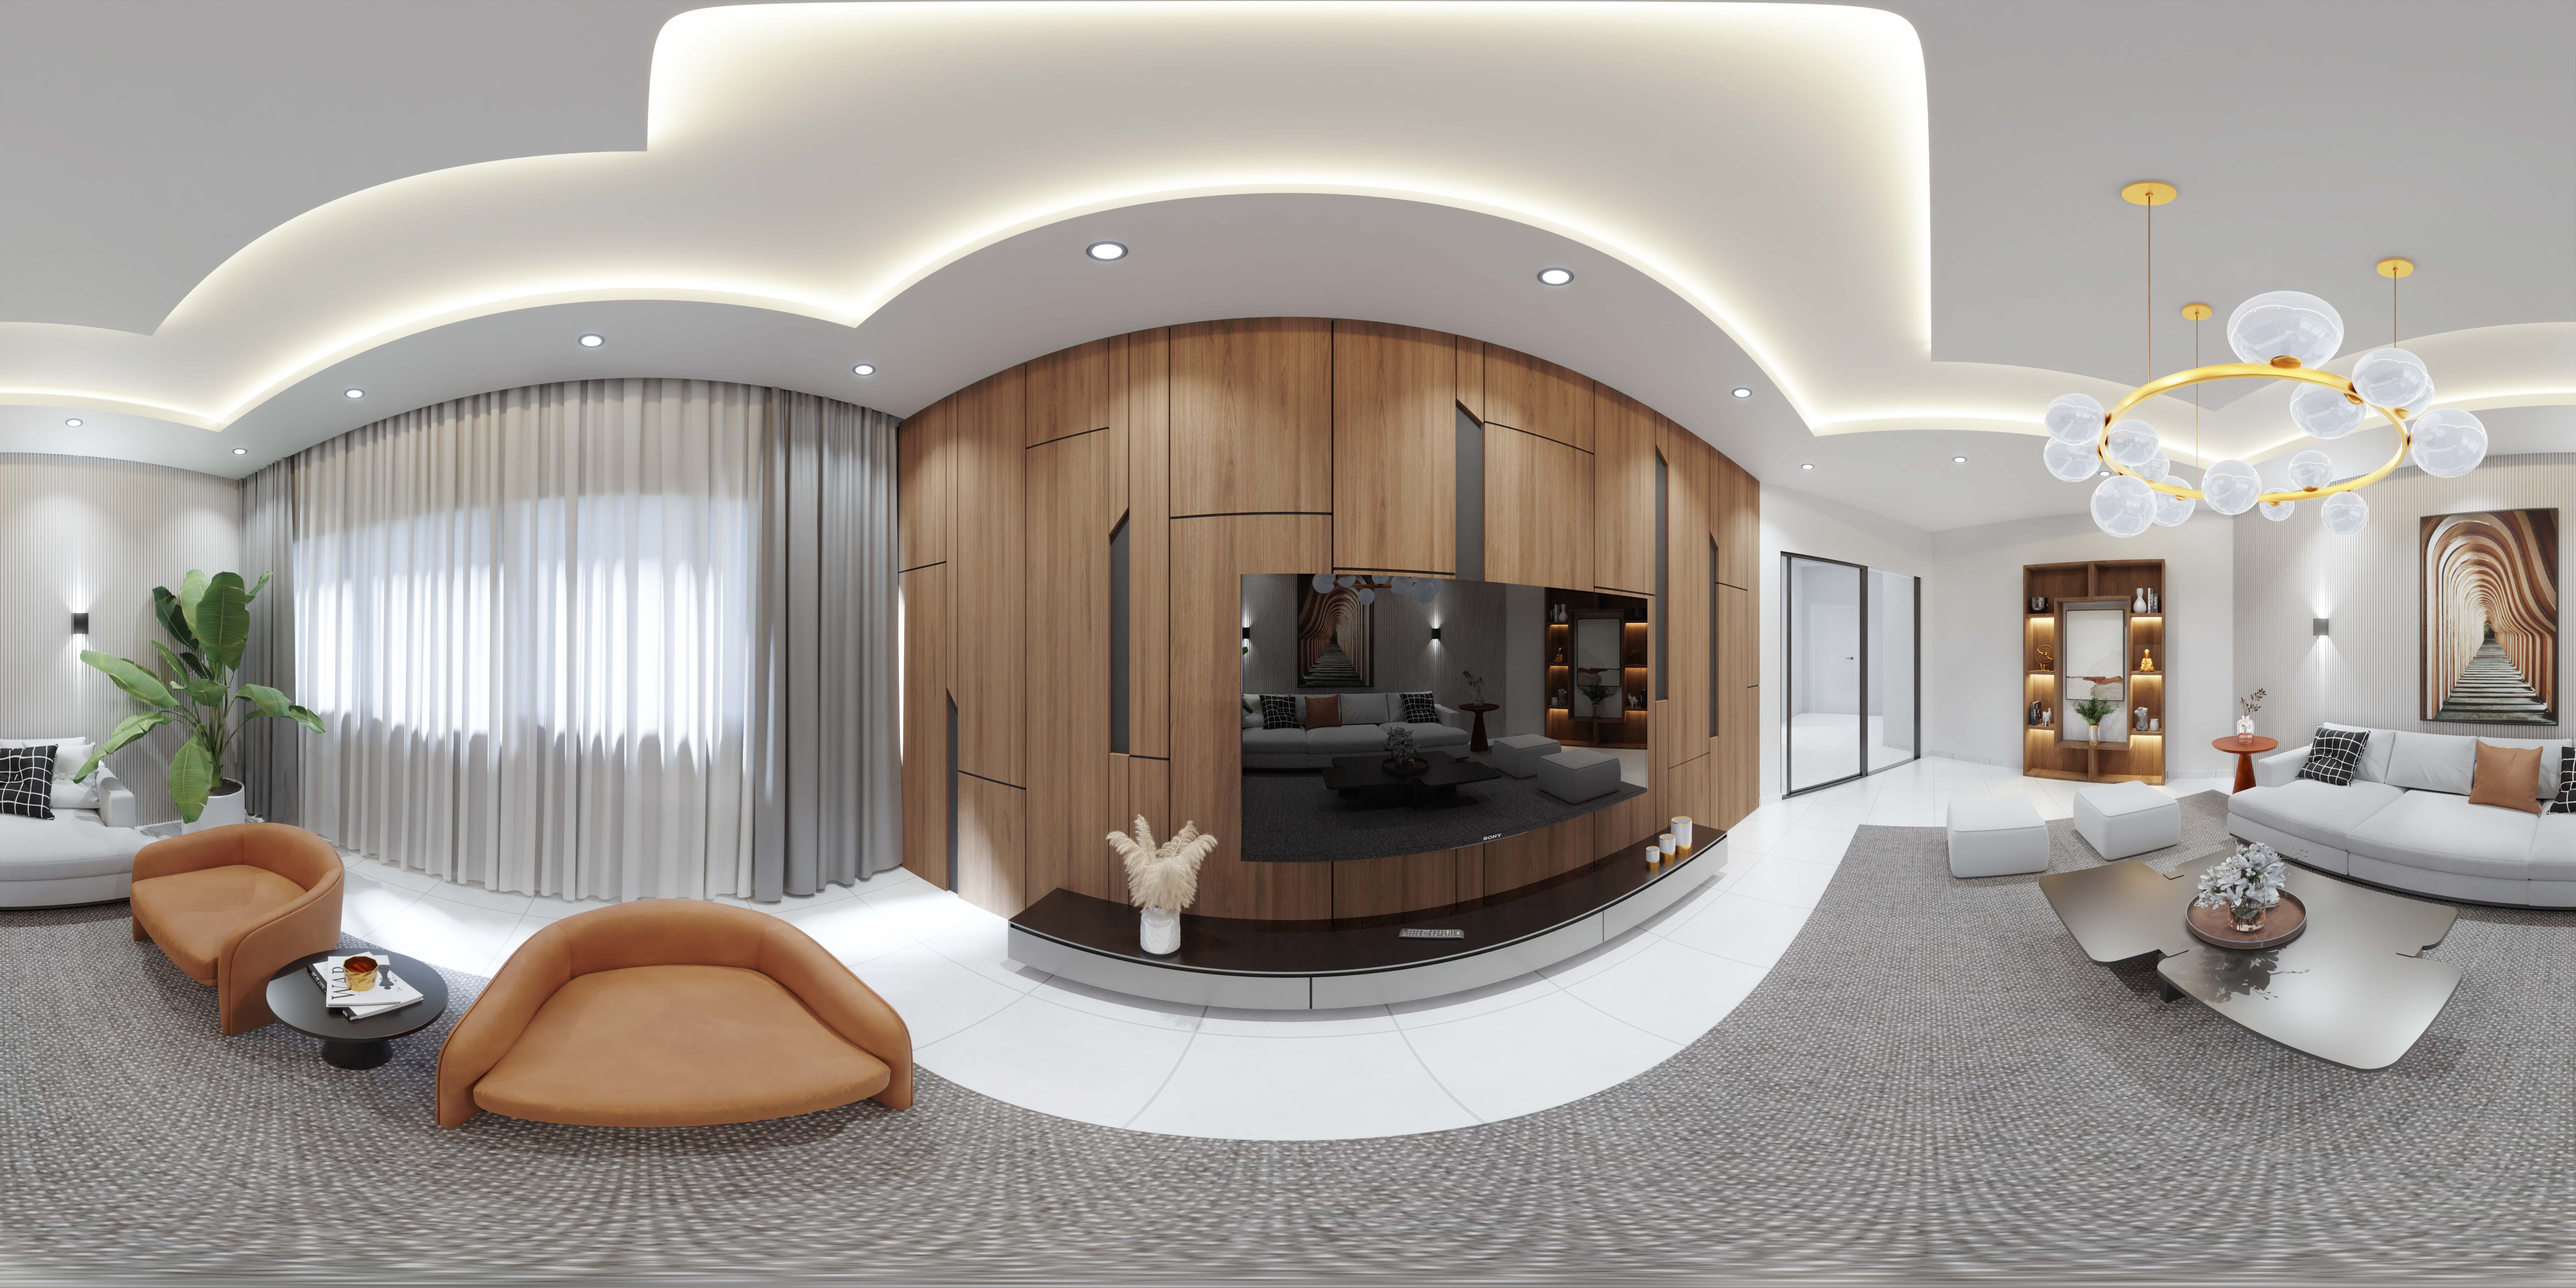
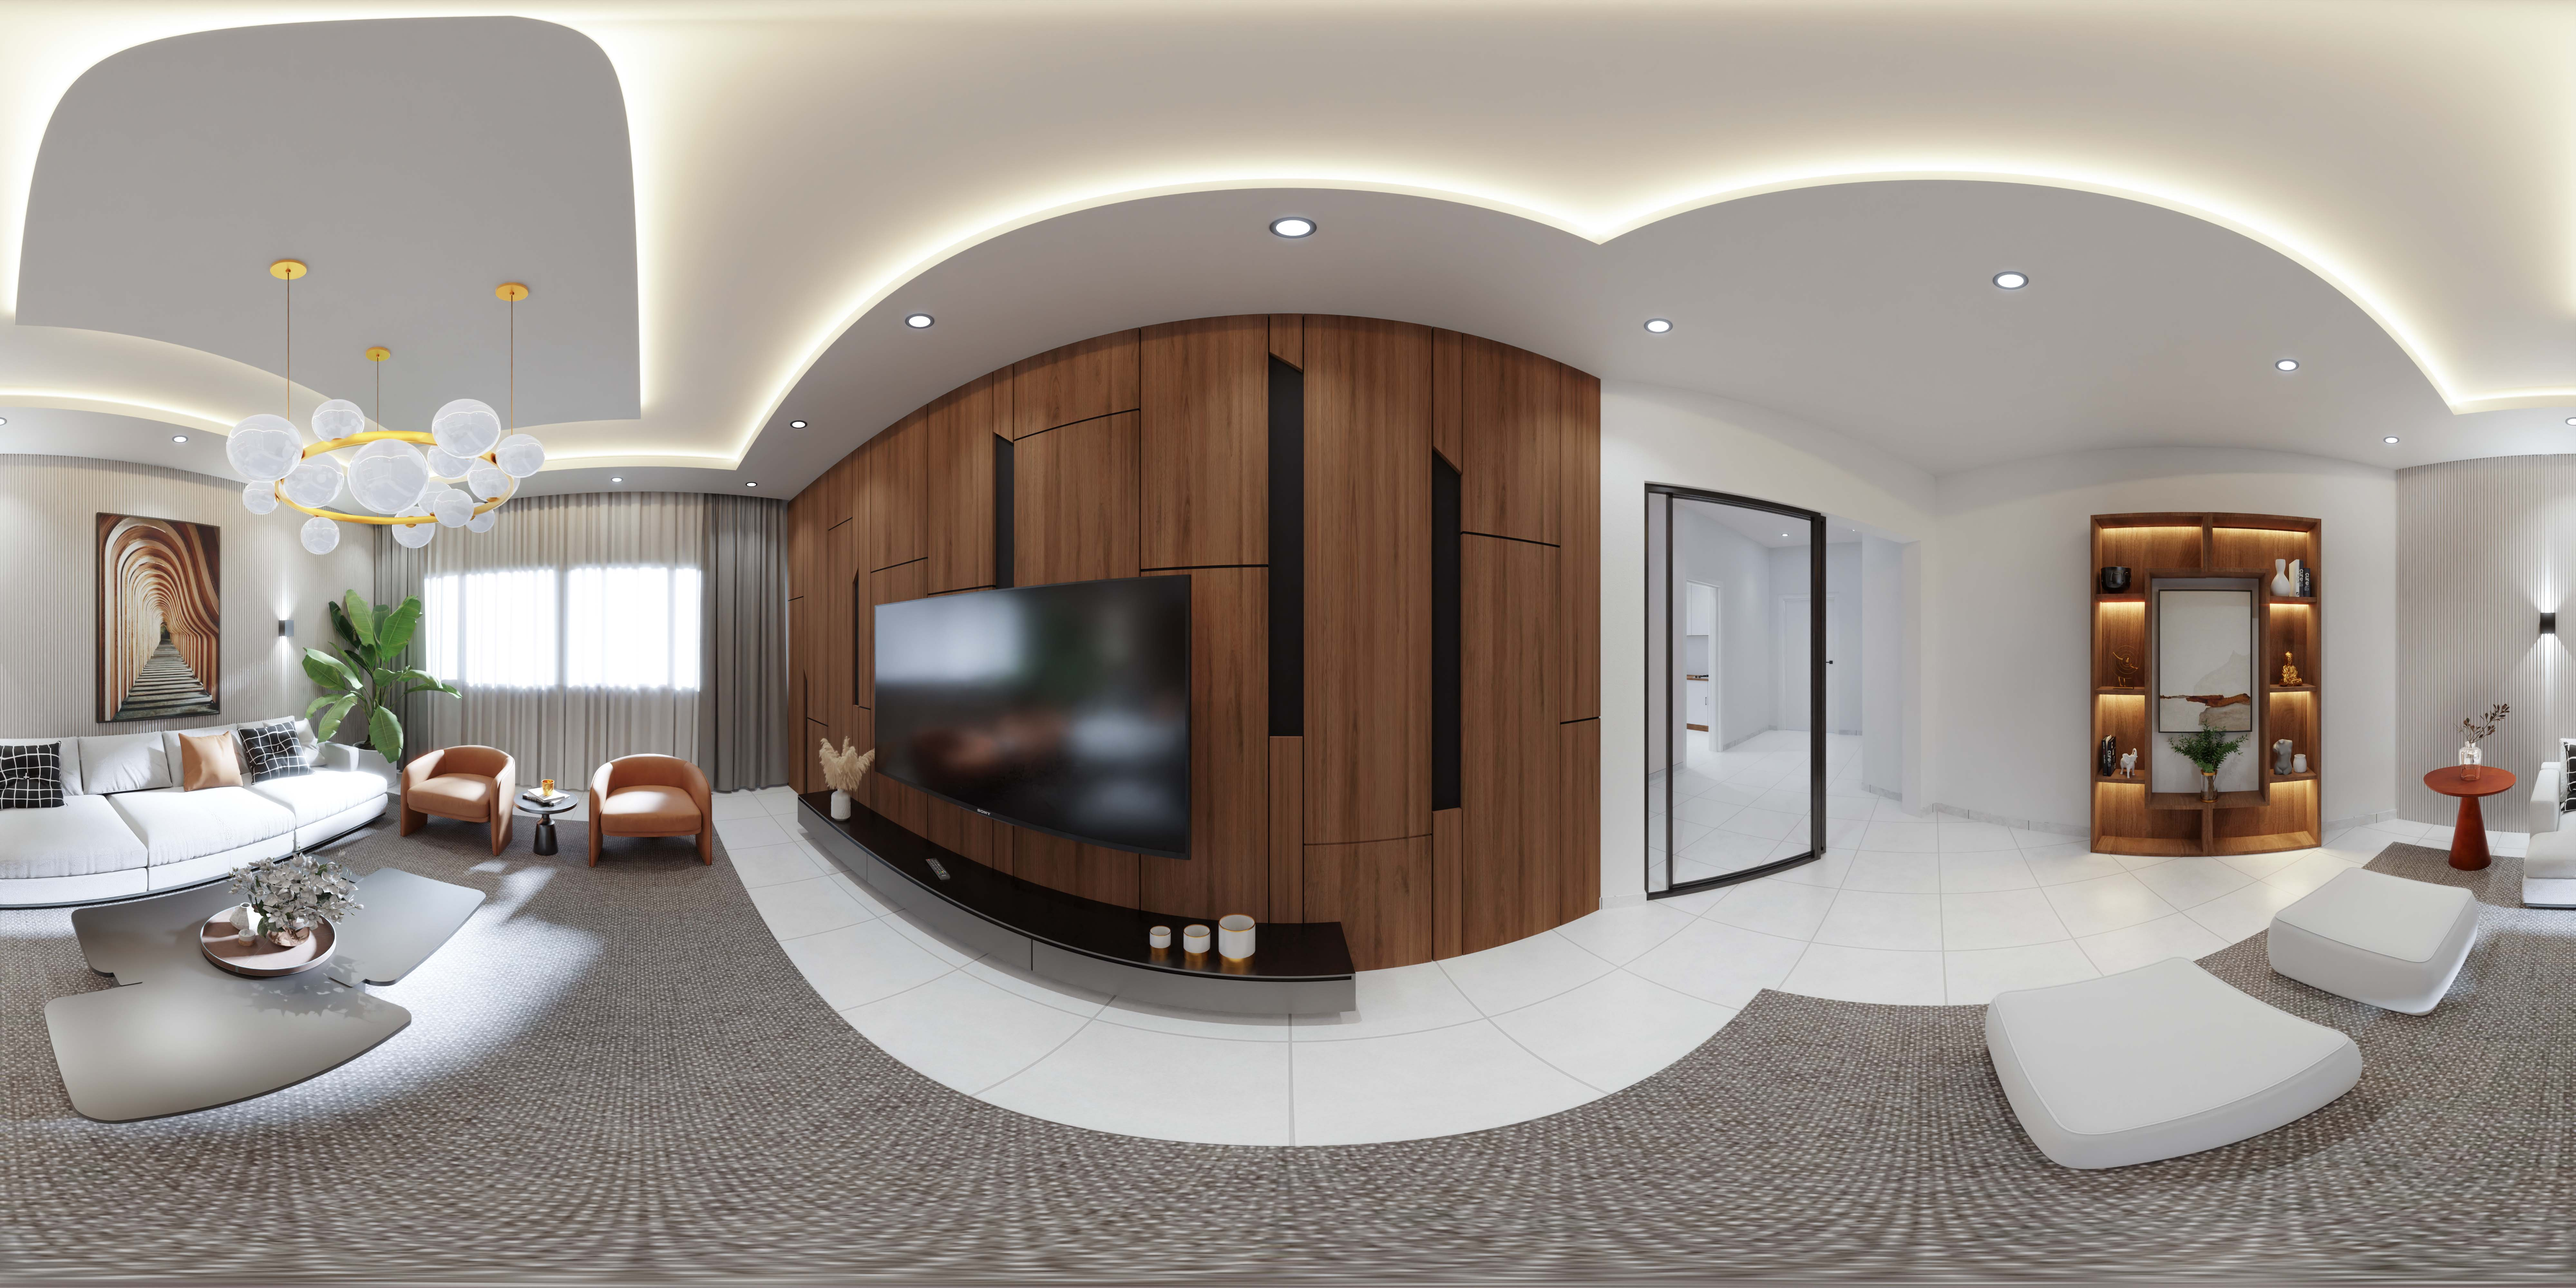
first commit-5

diff --git a/index.html b/index.html
@@ -83,7 +83,7 @@
         <a-assets>
             <!-- <img id="Scene-4" src="./Style/Images/Scene-4.jpg"> -->
             <img id="Arrow-1" src="./Style/Images/PNG/Arrow-1.png">
-            <img id="Scene-0" src="./Style/Images/Scene-0.jpg">
+            <img id="Scene-0" src="./Style/Images/Scene-1.jpg">
             <!-- <img id="Scene-3" src="./Style/Images/Scene-3.jpg"> -->
             <img id="Arrow-2" src="./Style/Images/PNG/Arrow-2.png">
             <!-- <img id="Scene-1" src="./Style/Images/Scene-1.jpg">
